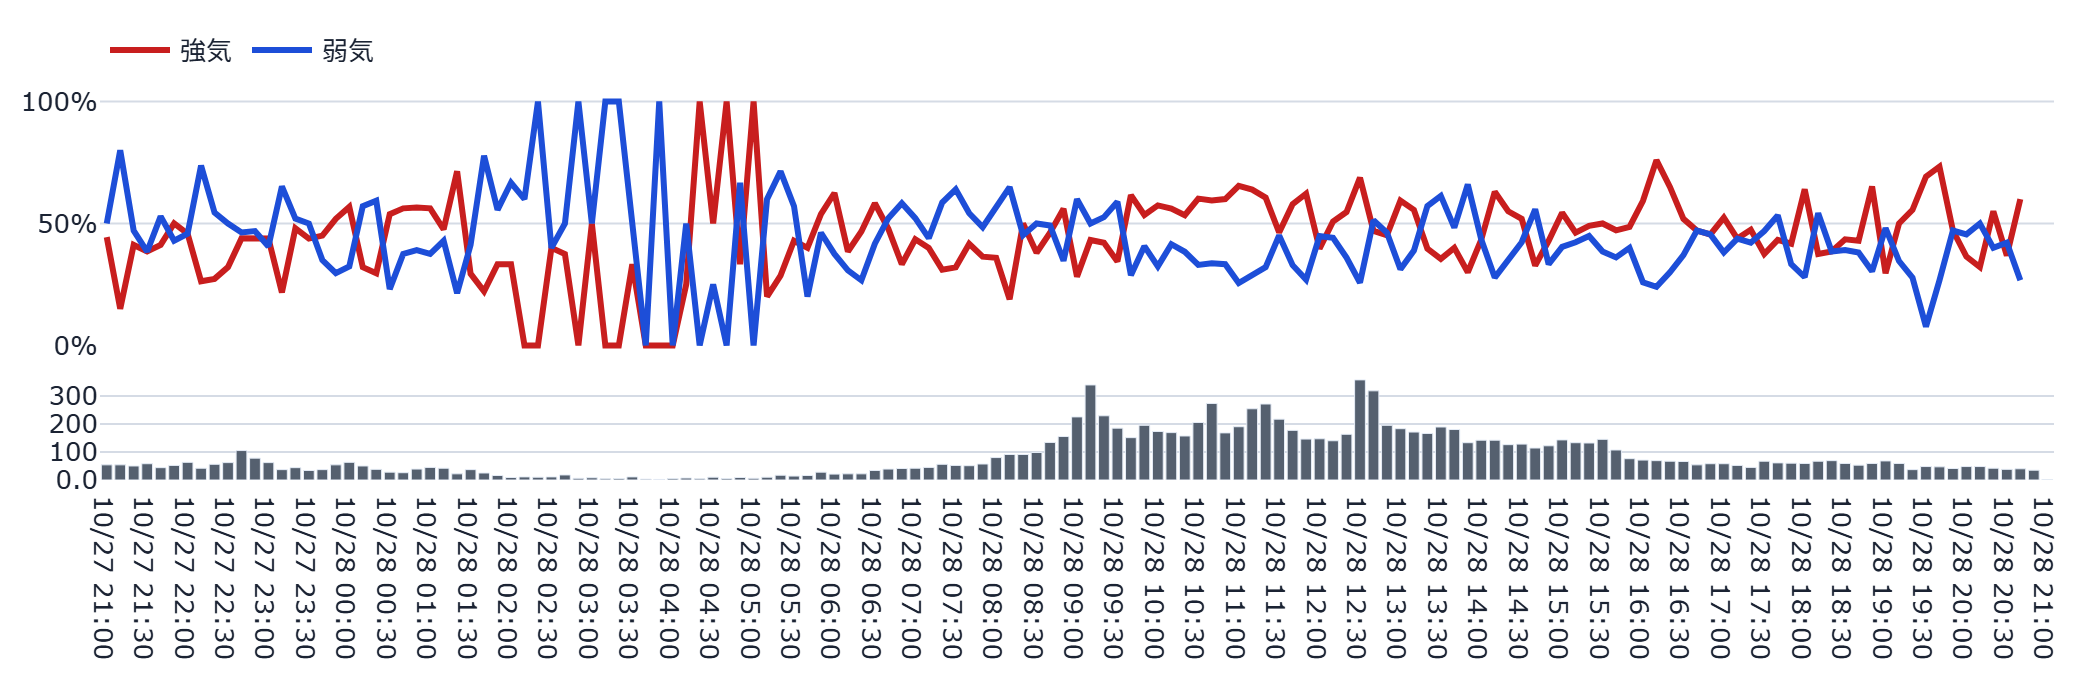
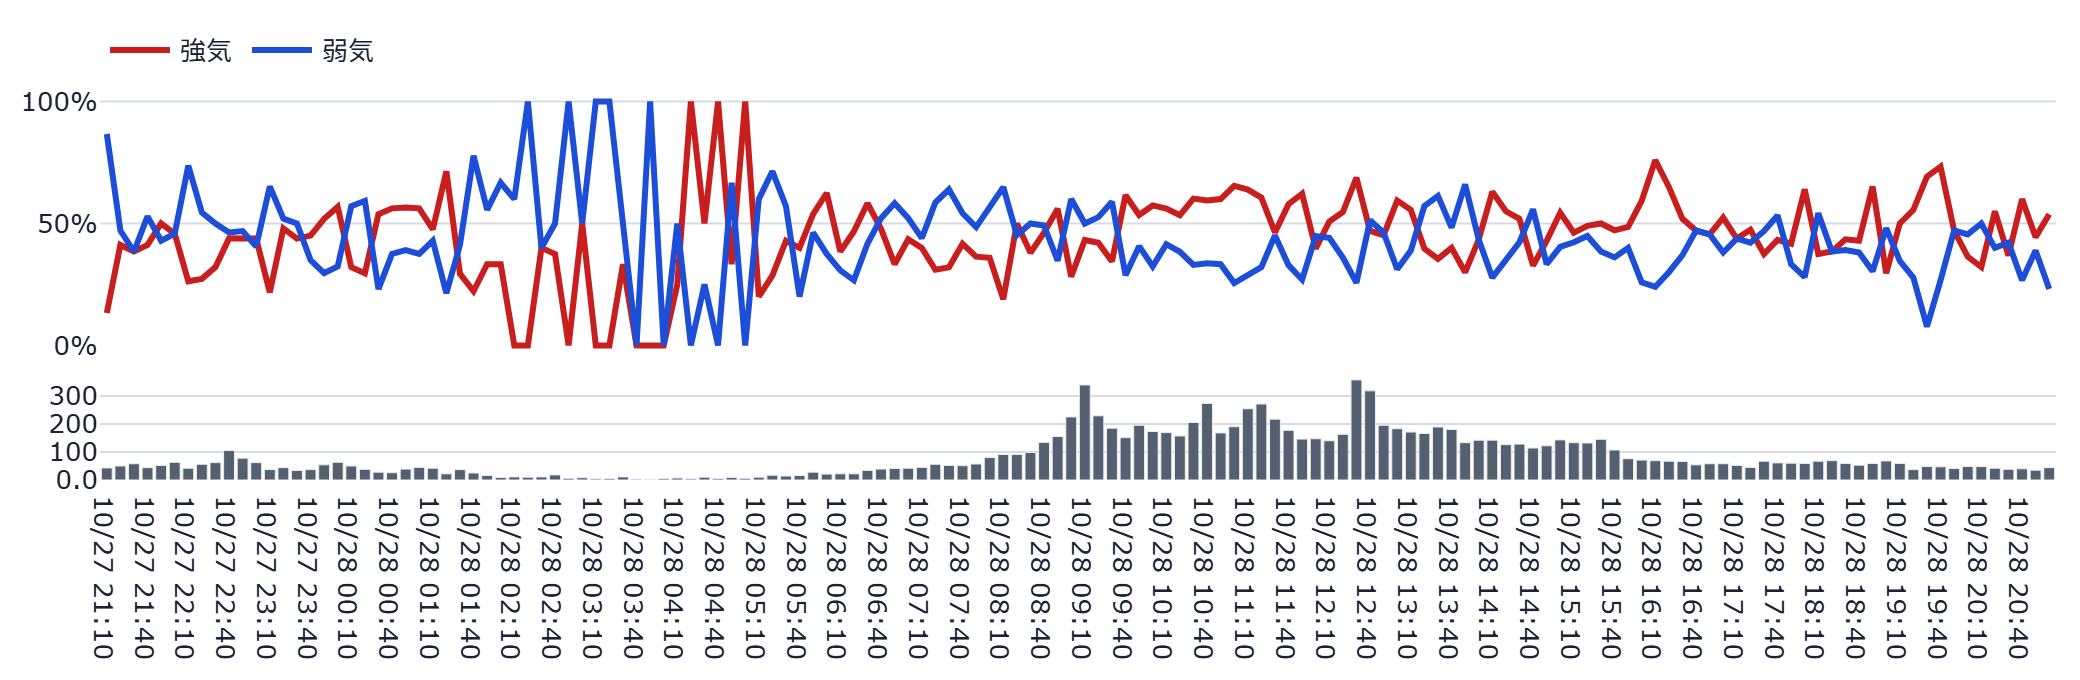
auto: refresh static dashboard (2026-10-28 21:14:59 JST)

diff --git a/docs/index.html b/docs/index.html
@@ -144,10 +144,10 @@
         <span class="price">14,340円</span>
         <span class="chg" style="color:#C81E1E">+13.76%</span>
       </div>
-      <p class="caption">更新時刻: 2026-10-28T21:00:55（データは1分間隔で自動生成され、このページも
+      <p class="caption">更新時刻: 2026-10-28T21:11:10（データは1分間隔で自動生成され、このページも
       60秒毎に自動再読み込みされます）</p>
       
-      <p id='visit-count-badge' class='caption'>👀 累計閲覧数: 11,336</p>
+      <p id='visit-count-badge' class='caption'>👀 累計閲覧数: 11,338</p>
       <p id='like-button-wrap' class='caption'><button id='like-button' type='button' style='cursor:pointer;border:1px solid var(--border);border-radius:6px;padding:1px 10px;margin-right:6px;background:var(--panel);color:var(--text);font-size:1em;vertical-align:middle'>👍</button><span id='like-count-label'>このダッシュボードが役に立ったら押してください（累計 4 いいね）</span></p>
 
       <!-- ★2026-09-08追加(ユーザー指示「AI考察はトップに移動」): モニタ
@@ -155,9 +155,9 @@
            常時最上部に表示する。 -->
       <h2>🤖 AI考察</h2>
       <div class='panel' id='ai-schedule'><h3>🗓 AI考察の予定</h3><ul><li>平日の立会日に、寄り前 08:50／寄り直後 09:10／前場引け前 11:30／大引け後 15:45 の4時点で考察を更新します（考察はClaude(AI)が書きます）。</li><li>土日祝などの休場日は考察を書きません。</li><li>時点の間は、数値のみを約10分ごとに更新します（文章は次の時点まで更新されません）。</li><li>次の予定: 10-29 08:50（寄り前）／直近の更新: 10-20 15:33（自動生成）</li></ul></div>
-      <div class='panel' id='numeric-summary'><h3>📊 数値要約｜21:00 更新</h3><ul><li>株価: 14,340円（前営業日終値比 +13.76%）</li><li>掲示板: 強気 49.7%／弱気 41.7%／中立 8.6%・投稿 11,013件（約501件/時）</li><li>シグナル: 発火＝灼熱メーター(過熱)(41.1)／警戒＝イナゴ語彙(euphoria)(4.4)／平常＝そう思う大量票(54)・ネームド集中(0.03)・他銘柄混入率(0.05)・暴落煽り語彙(2)ほか</li><li>10/28 15:30時点｜買い総量 299.5万株／売り総量 192.4万株／比 1.56／差 +107.1万株</li><li>直近30秒: 買い -34.2万株(減少)／売り -9.4万株(減少)</li><li>直近1分: 買い -34.2万株(減少)／売り -9.4万株(減少)</li><li>直近3分: 買い -34.2万株(減少)／売り -9.4万株(減少)</li><li>直近5分: 買い -34.2万株(減少)／売り -9.4万株(減少)</li><li>10/28 15:30時点｜現在値 14,340円／VWAP 14,003.2円（距離 +336.8円・+2.41%）</li><li>出来高 10,760.7万株／売買代金(試算) 15,068.4億円／日中高値 14,625円・安値 12,970円</li><li>変化点: 前回の数値要約から大きな変化なし</li></ul><p class='caption'>強気・弱気は機械判定（辞書＋軽量モデル）の値です。日単位の向きはLM判定と近く（相関0.8台）、時間単位は粗い点に注意してください。</p></div>
+      <div class='panel' id='numeric-summary'><h3>📊 数値要約｜21:11 更新</h3><ul><li>株価: 14,340円（前営業日終値比 +13.76%）</li><li>掲示板: 強気 49.7%／弱気 41.7%／中立 8.7%・投稿 11,056件（約502件/時）</li><li>シグナル: 発火＝灼熱メーター(過熱)(41.1)／警戒＝イナゴ語彙(euphoria)(4.4)／平常＝そう思う大量票(54)・ネームド集中(0.03)・他銘柄混入率(0.05)・暴落煽り語彙(2)ほか</li><li>10/28 15:30時点｜買い総量 299.5万株／売り総量 192.4万株／比 1.56／差 +107.1万株</li><li>直近30秒: 買い -34.2万株(減少)／売り -9.4万株(減少)</li><li>直近1分: 買い -34.2万株(減少)／売り -9.4万株(減少)</li><li>直近3分: 買い -34.2万株(減少)／売り -9.4万株(減少)</li><li>直近5分: 買い -34.2万株(減少)／売り -9.4万株(減少)</li><li>10/28 15:30時点｜現在値 14,340円／VWAP 14,003.2円（距離 +336.8円・+2.41%）</li><li>出来高 10,760.7万株／売買代金(試算) 15,068.4億円／日中高値 14,625円・安値 12,970円</li><li>変化点: 前回の数値要約から大きな変化なし</li></ul><p class='caption'>強気・弱気は機械判定（辞書＋軽量モデル）の値です。日単位の向きはLM判定と近く（相関0.8台）、時間単位は粗い点に注意してください。</p></div>
       <div class='panel' id='screen-extras'><h3>🧭 板・価格まわり・見立ての採点（参考）</h3><ul><li>10/28 15:30時点｜買い総量 299.5万株／売り総量 192.4万株／比 1.56／差 +107.1万株</li><li>直近30秒: 買い -34.2万株(減少)／売り -9.4万株(減少)</li><li>直近1分: 買い -34.2万株(減少)／売り -9.4万株(減少)</li><li>直近3分: 買い -34.2万株(減少)／売り -9.4万株(減少)</li><li>直近5分: 買い -34.2万株(減少)／売り -9.4万株(減少)</li><li>10/28 15:30時点｜現在値 14,340円／VWAP 14,003.2円（距離 +336.8円・+2.41%）</li><li>出来高 10,760.7万株／売買代金(試算) 15,068.4億円／日中高値 14,625円・安値 12,970円</li></ul><p class='caption'>板情報・約定ティック(遅延あり)から作成。売買代金は試算(VWAP×出来高)。見立ての採点は参考・機械採点で、売買の推奨ではありません。</p></div>
-      <div class='metric-row'><div class='metric-card'><div class='metric-label'>株価</div><div class='metric-value'>14,340円</div><div class='metric-delta'>+0円</div></div><div class='metric-card'><div class='metric-label'>強気比率</div><div class='metric-value'>49.7%</div><div class='metric-delta'>+0.0pt</div></div><div class='metric-card'><div class='metric-label'>弱気比率</div><div class='metric-value'>41.7%</div><div class='metric-delta'>+0.0pt</div></div></div><p class='caption'>前回集計(2026-10-28T20:51:04)との比較</p>
+      <div class='metric-row'><div class='metric-card'><div class='metric-label'>株価</div><div class='metric-value'>14,340円</div><div class='metric-delta'>+0円</div></div><div class='metric-card'><div class='metric-label'>強気比率</div><div class='metric-value'>49.7%</div><div class='metric-delta'>+0.0pt</div></div><div class='metric-card'><div class='metric-label'>弱気比率</div><div class='metric-value'>41.7%</div><div class='metric-delta'>+0.0pt</div></div></div><p class='caption'>前回集計(2026-10-28T21:00:55)との比較</p>
       <div class='ai-box'>※無料公開データを機械的に集計した観測情報であり、投資助言・売買推奨ではありません。（10-20 大引け後・本日の取引終了後の整理です）<br>
 <br>
 ■ 本日の終値：15:30の板寄せで13,140円、前営業日終値比で約-3.4%<br>
@@ -205,7 +205,7 @@
             <h3>ボラ・レジーム帯</h3>
             <figure><img src='images/regime_band.png' alt='ボラ・レジーム帯' loading='lazy'></figure>
             <p class='caption'>現在レジーム: 較正中　(BVP=0.482)</p>
-            <div class='metric-row'><div class='metric-card'><div class='metric-label'>PTS（10/28 20:59）</div><div class='metric-value'>14,475円</div><div class='metric-delta' style='color:#C81E1E'>+0.94%</div></div><div class='metric-card'><div class='metric-label'>DEX（10/28 20:55）</div><div class='metric-value'>14,489円</div><div class='metric-delta' style='color:#C81E1E'>+1.04%</div></div></div><p class='caption'>PTS=東証取引時間外の私設取引システム／ADR=米国預託証券／DEX=分散型取引所(Hyperliquid)の24時間取引・円換算(東証終値比)。翌営業日の値動きの参考情報です(それ自体が売買シグナルではありません)。</p>
+            <div class='metric-row'><div class='metric-card'><div class='metric-label'>PTS（10/28 21:08）</div><div class='metric-value'>14,460円</div><div class='metric-delta' style='color:#C81E1E'>+0.84%</div></div><div class='metric-card'><div class='metric-label'>DEX（10/28 21:06）</div><div class='metric-value'>14,429円</div><div class='metric-delta' style='color:#C81E1E'>+0.62%</div></div></div><p class='caption'>PTS=東証取引時間外の私設取引システム／ADR=米国預託証券／DEX=分散型取引所(Hyperliquid)の24時間取引・円換算(東証終値比)。翌営業日の値動きの参考情報です(それ自体が売買シグナルではありません)。</p>
           </div>
         </div>
 
@@ -289,7 +289,7 @@
 
       <hr style="border:none;border-top:1px solid var(--border);margin:2rem 0 1rem">
       <p class="caption">⚠ 本情報は掲示板投稿を統計的に集計したものであり、投資助言ではありません。個別の投稿内容は含まれていません。研究・エンタメ用途です。</p>
-      <footer>生成: generate_static_dashboard.py（2026-10-28T21:04:54） /
+      <footer>生成: generate_static_dashboard.py（2026-10-28T21:14:53） /
       画像バックエンド: plotly+kaleido</footer>
     </div>
     <script>(function(){var url="https://script.google.com/macros/s/AKfycbwgSSGQ2n56ohmIYKlNDA1Xe3D8hd3GJbD0U90L4DGtXdb8pqrPokNMHJWjvN1__7bE/exec";var KEY='bbs_visit_counted';var already=sessionStorage.getItem(KEY);var action=already?'read':'hit';var ctrl=(typeof AbortController!=='undefined')?new AbortController():null;var timer=ctrl?setTimeout(function(){ctrl.abort();},5000):null;fetch(url+'?action='+action,{signal:ctrl?ctrl.signal:undefined}).then(function(r){if(timer)clearTimeout(timer);return r.json();}).then(function(data){if(!already)sessionStorage.setItem(KEY,'1');if(data&&typeof data.count==='number'){var el=document.getElementById('visit-count-badge');if(el){el.textContent='\u{1F440} \u7d2f\u8a08\u95b2\u89a7\u6570: '+data.count.toLocaleString();el.style.display='';}}}).catch(function(e){if(timer)clearTimeout(timer);console.warn('visit counter fetch failed (fail-soft):',e);});})();</script><script>(function(){var url="https://script.google.com/macros/s/AKfycbwgSSGQ2n56ohmIYKlNDA1Xe3D8hd3GJbD0U90L4DGtXdb8pqrPokNMHJWjvN1__7bE/exec";var KEY='bbs_liked';var btn=document.getElementById('like-button');var label=document.getElementById('like-count-label');if(!btn||!label)return;function renderLiked(count){btn.disabled=true;btn.style.cursor='default';btn.style.opacity='0.6';btn.textContent='\u2705';label.textContent="\u3044\u3044\u306d\u3057\u307e\u3057\u305f\uff01"+(typeof count==='number'?"\uff08\u7d2f\u8a08 "+count.toLocaleString()+" \u3044\u3044\u306d\uff09":'');}if(localStorage.getItem(KEY)){renderLiked(null);}btn.addEventListener('click',function(){if(localStorage.getItem(KEY))return;btn.disabled=true;var ctrl=(typeof AbortController!=='undefined')?new AbortController():null;var timer=ctrl?setTimeout(function(){ctrl.abort();},5000):null;fetch(url+'?action=like_hit',{signal:ctrl?ctrl.signal:undefined}).then(function(r){if(timer)clearTimeout(timer);return r.json();}).then(function(data){localStorage.setItem(KEY,'1');renderLiked(data&&typeof data.count==='number'?data.count:null);}).catch(function(e){if(timer)clearTimeout(timer);btn.disabled=false;console.warn('like button fetch failed (fail-soft):',e);});});})();</script><script>(function(){var DEFAULT_TAB='overview';function activate(tabName){var buttons=document.querySelectorAll('.tab-bar .tab-btn');var panels=document.querySelectorAll('[data-tab-panel]');if(!buttons.length||!panels.length)return;var matched=false;panels.forEach(function(p){var on=p.getAttribute('data-tab-panel')===tabName;if(on)matched=true;p.classList.toggle('tab-hidden',!on);});if(!matched){panels.forEach(function(p){p.classList.toggle('tab-hidden',p.getAttribute('data-tab-panel')!==DEFAULT_TAB);});tabName=DEFAULT_TAB;}buttons.forEach(function(b){var on=b.getAttribute('data-tab')===tabName;b.classList.toggle('active',on);b.setAttribute('aria-selected',on?'true':'false');});}document.addEventListener('DOMContentLoaded',function(){var bar=document.getElementById('tabBar');if(!bar)return;bar.addEventListener('click',function(e){var btn=e.target.closest('.tab-btn');if(!btn)return;activate(btn.getAttribute('data-tab'));});activate(DEFAULT_TAB);});})();</script></body></html>
